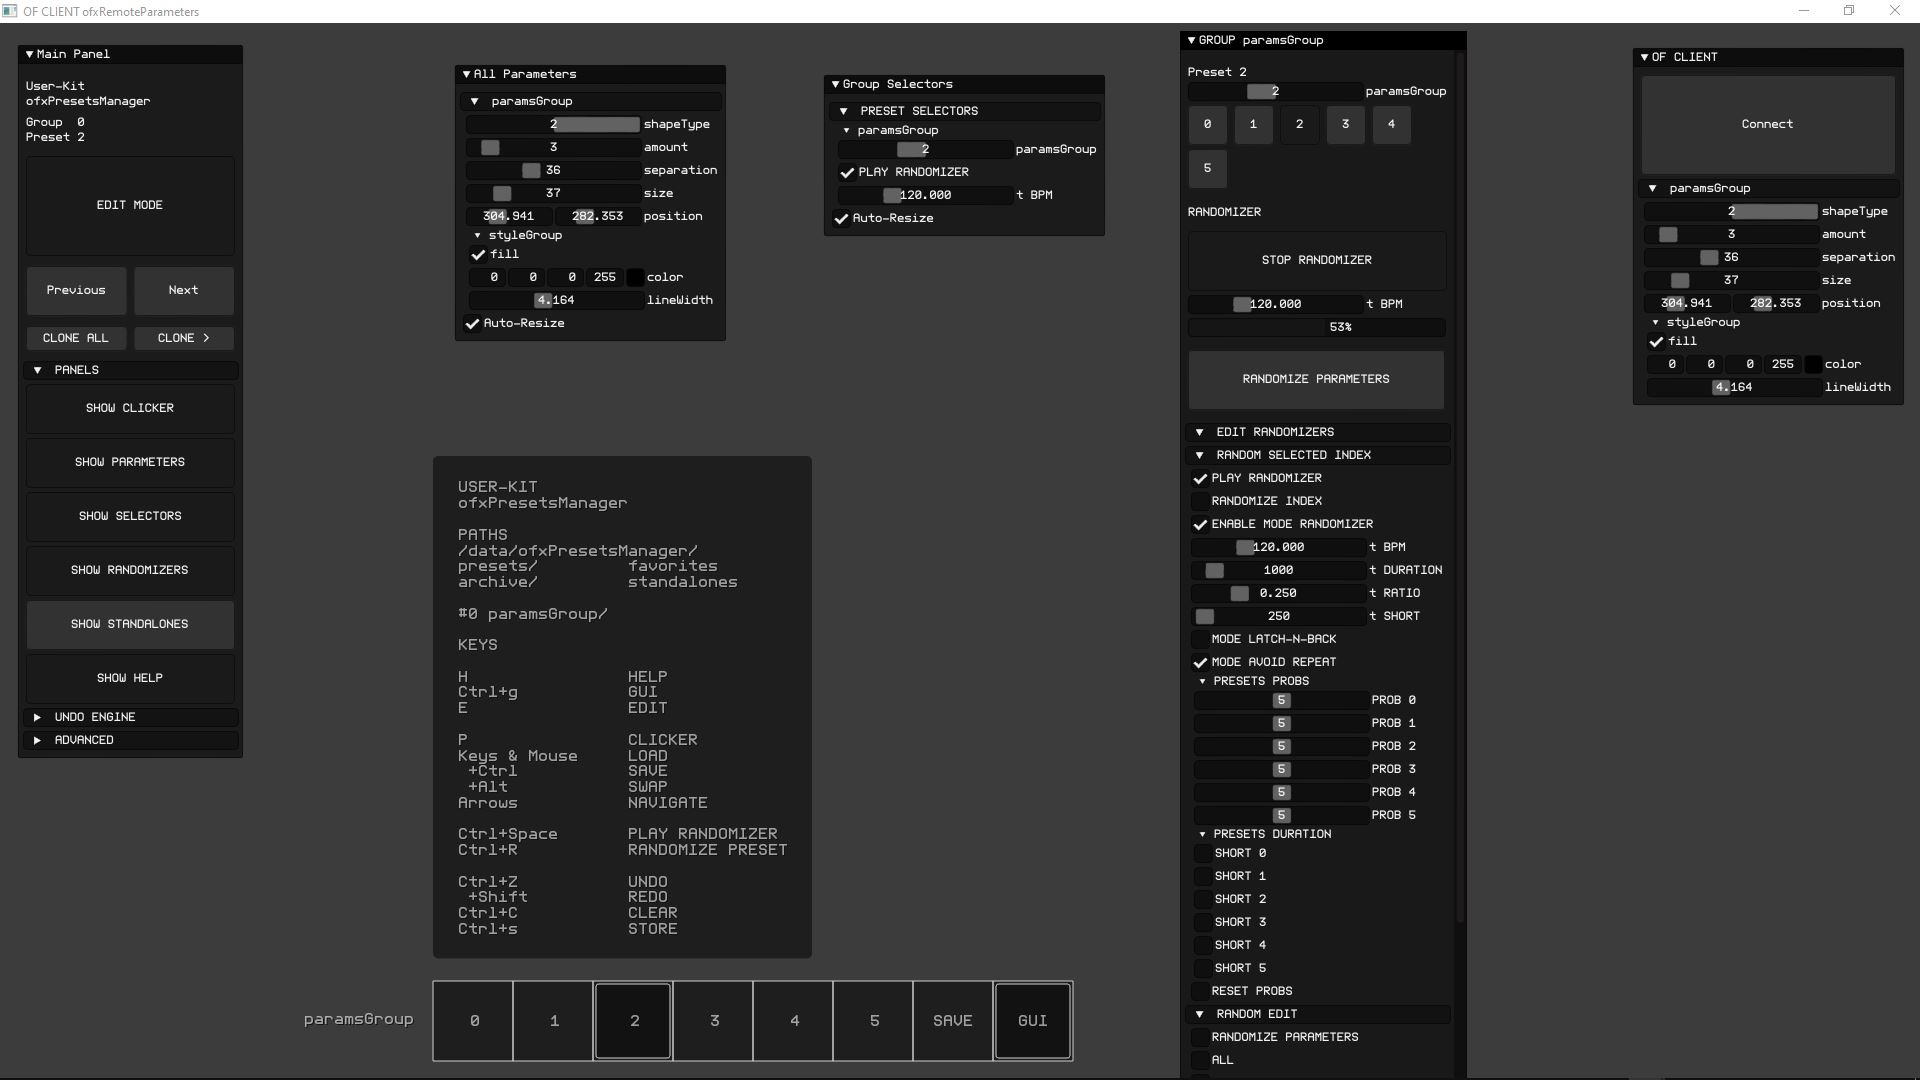
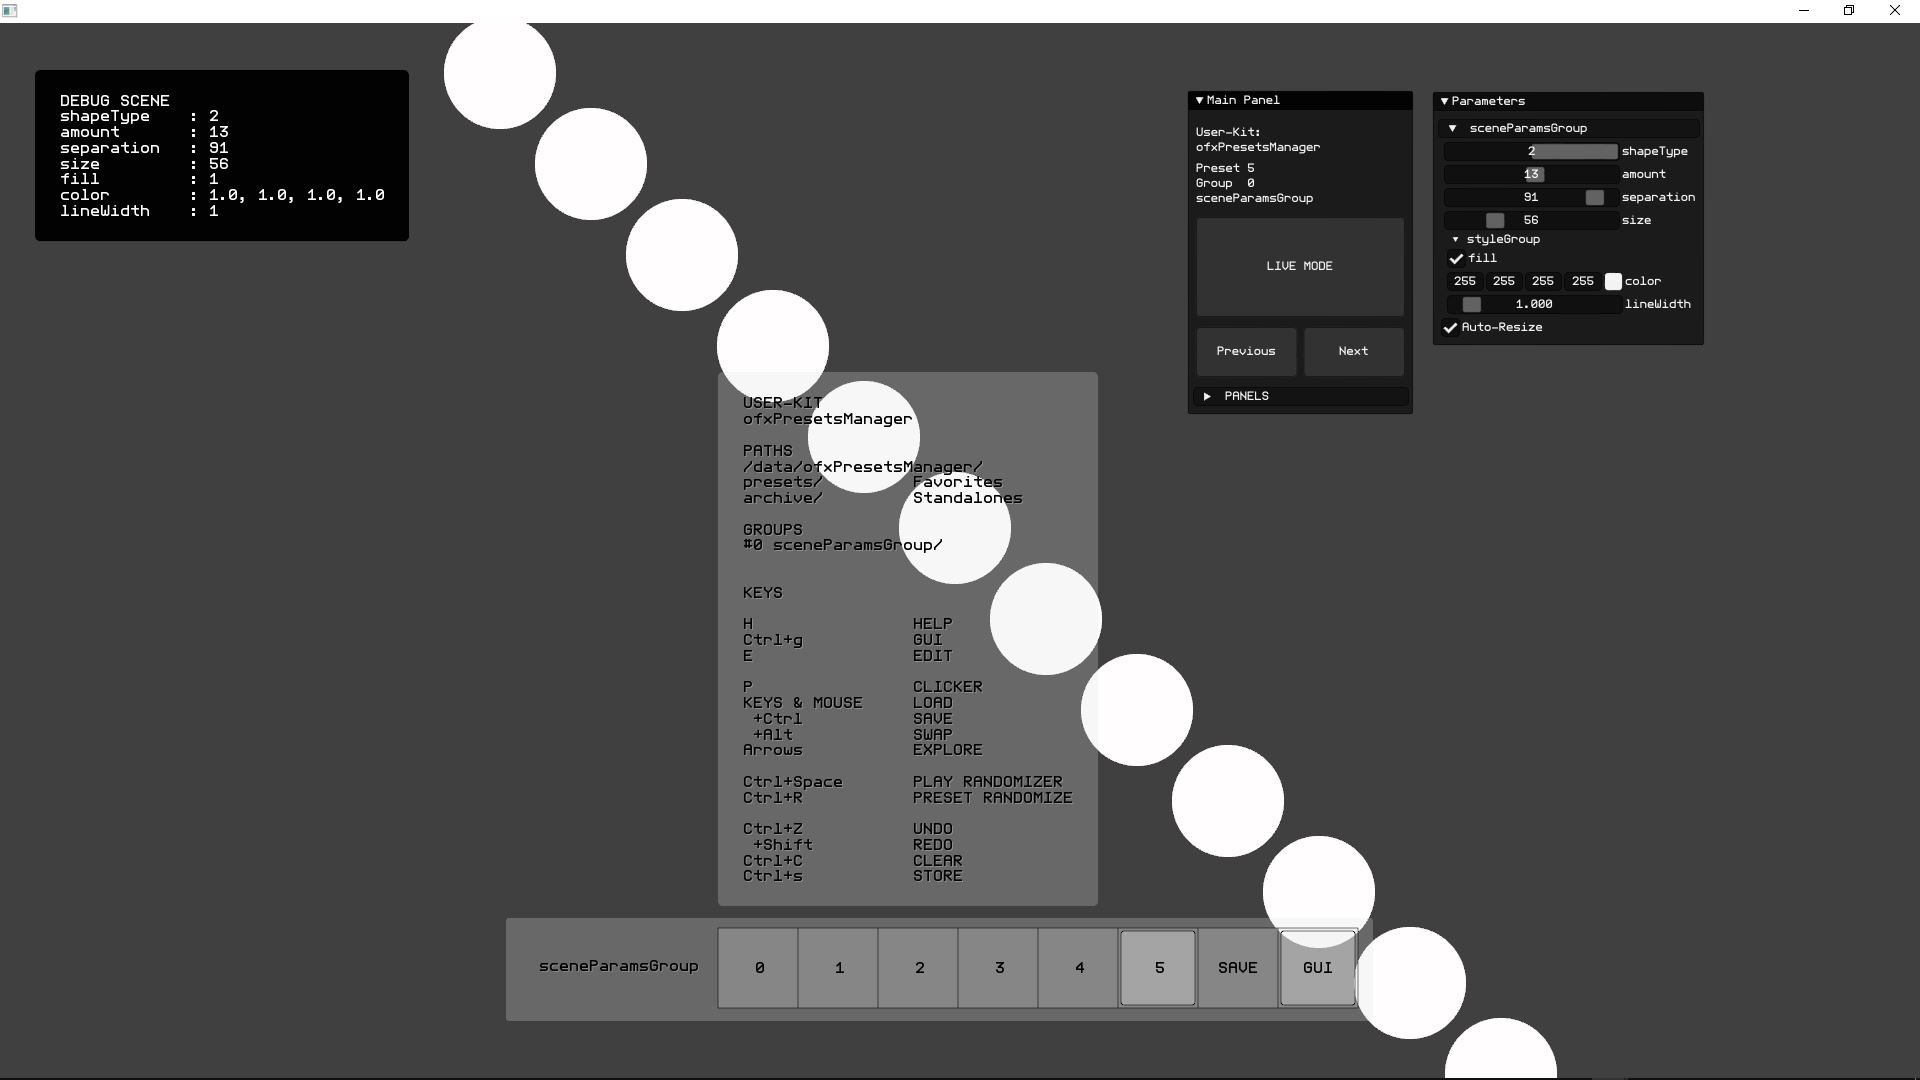
update example

diff --git a/1_example-Basic/src/ofApp.cpp b/1_example-Basic/src/ofApp.cpp
@@ -23,6 +23,7 @@ void ofApp::setup()
 	ofSetFrameRate(60);
 	ofSetVerticalSync(true);
 	font.load("assets/fonts/telegrama_render.otf", 11, true, true, true);
+	ofSetCircleResolution(200);
 
 	// define our parameters (ofParameterGroup params) for our scene 
 	// and add them to our params
@@ -35,13 +36,10 @@ void ofApp::setup()
 	presetsManager.setup();// must call after adding all the ofParameterGroup(s)
 }
 
-
-/* Scene */
-
 //--------------------------------------------------------------
 void ofApp::drawScene()
 {
-	ofBackground(ofColor::darkBlue);
+	ofBackground(64);
 
 	// scene draw object linked to grouped parameters
 	ofPushStyle();
@@ -60,12 +58,7 @@ void ofApp::drawScene()
 	ofPopMatrix();
 	ofPopStyle();
 
-	// show help and debug preset
-	std::string str = "HELP\n";
-	str += "H            : Show Help\n";
-	str += "0,1,2,3,4,5  : Presets Keys\n";
-	str += "\n";
-
+	std::string str;
 	str += "DEBUG SCENE\n";
 	str += "shapeType    : " + ofToString(shapeType) + "\n";
 	str += "amount       : " + ofToString(amount) + "\n";
